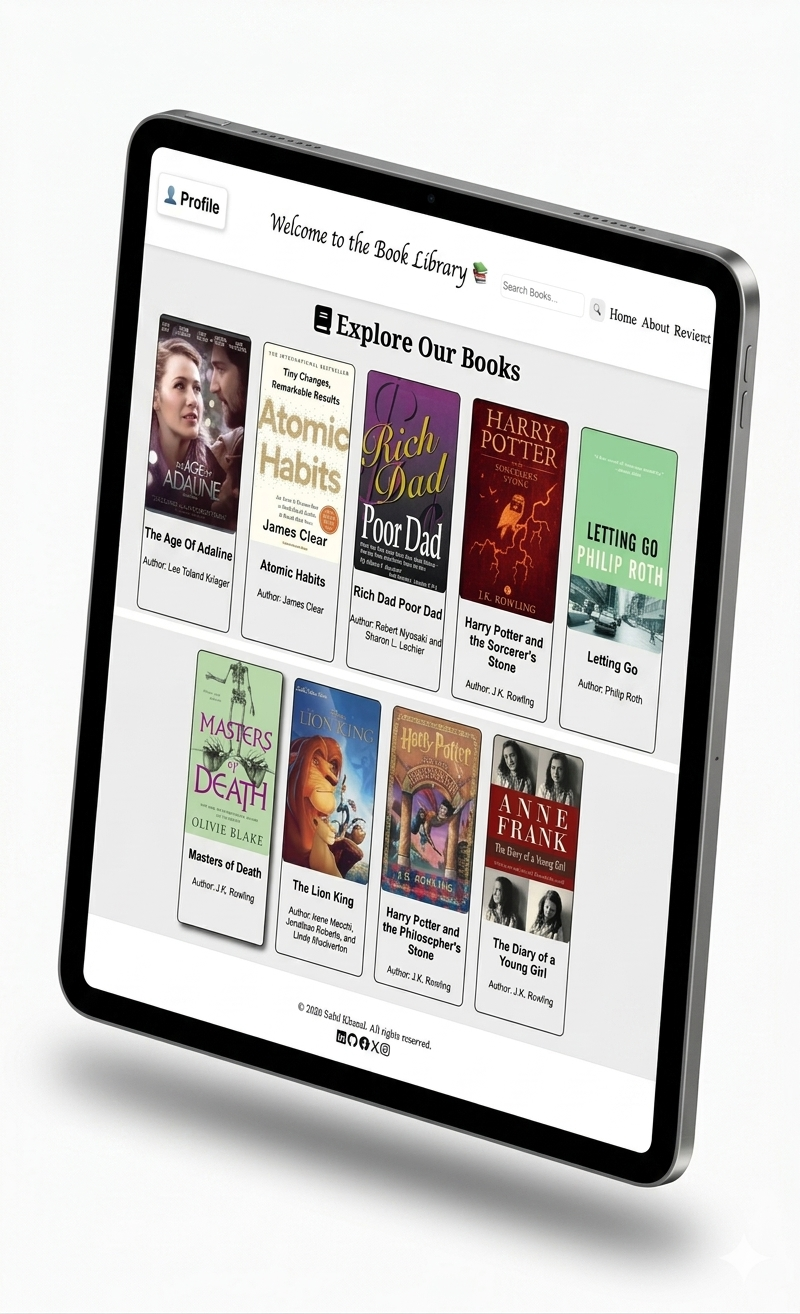
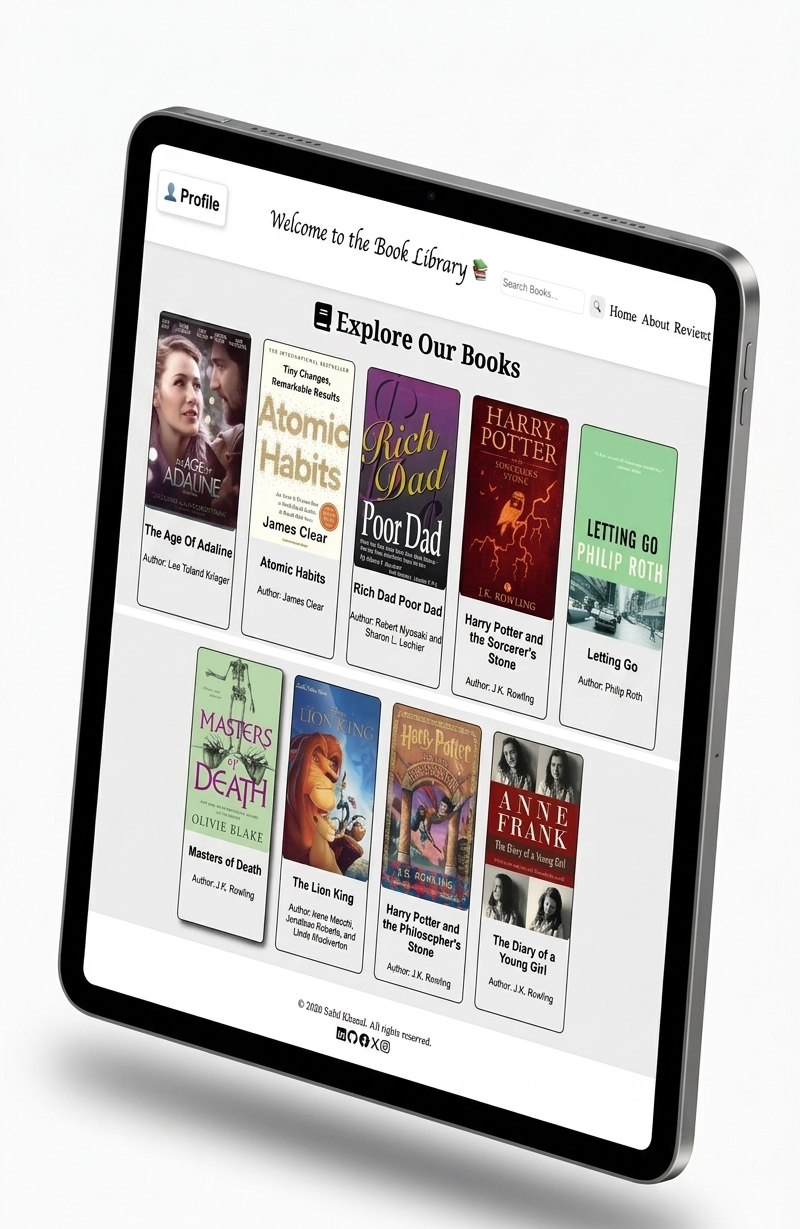
Added dark mode integration and polished mobile theme switch layout.

diff --git a/style.css b/style.css
@@ -1,15 +1,5 @@
 @import url(https://cdnjs.cloudflare.com/ajax/libs/font-awesome/6.4.0/css/all.min.css);
-.status-badge {
-    display: inline-block;
-    padding: 5px 12px;
-    background-color: #fff3cd; 
-    color: #856404;
-    border: 1px solid #ffeeba;
-    border-radius: 20px;
-    font-size: 20px;
-    font-weight: 500;
-    margin-bottom: 15px;
-}
+
 * {
     margin: 0;
     padding: 0;
@@ -20,7 +10,7 @@ html{
 }
 body{
     font-family:  -apple-system, BlinkMacSystemFont, "Segoe UI", Roboto, Helvetica, Arial, sans-serif;
-    background-color: rgb(249, 250, 252);
+    background-color: var(--bg-main);
     line-height: 1.6;
 }
 
@@ -38,10 +28,7 @@ header{
     align-items: center;
     height: 0;
     margin: 0 auto;
-}
-#navbar-container{
-    }
-    
+}   
 .logo img {
     height: 30px;
     width: 50px;
@@ -79,11 +66,11 @@ header{
     align-items: center;
     height: 60px;
     margin-top: 3px;
-    border: 1px solid  rgb(205, 203, 203);
+    border: 1px solid  var(--bg-card);
     border-radius: 30px;
-    background-color: rgba(244, 243, 241,0.8);
+    background-color: var(--nav-bg);
     backdrop-filter: blur(5px);
-    box-shadow: 0 4px 15px rgb(205, 203, 203);
+    box-shadow: 0 4px 15px var(--nav-shadow);
 
 }
 nav a:first-child{
@@ -92,7 +79,7 @@ nav a:first-child{
 nav a{
     cursor: pointer;
     text-decoration: none;
-    color:  rgb(13, 12, 12);
+    color:  var(--text-main);
     font-size: 18px;
     font-weight: 510;
     transition: transform 0.3s ease;
@@ -129,6 +116,7 @@ nav a:hover{
     font-size: 70px;
     line-height: 1.1;
     margin-bottom: 10px;
+    color: var(--text-main);
 }
 .home-content h1 .highlight{
     color:  #002fff;
@@ -137,7 +125,7 @@ nav a:hover{
 .home-content h2{
     font-size: 28px;
     font-weight: 400;
-    color: #555;
+    color: var(--text-main);
     margin-bottom: 20px;
 }
 .home-content p{
@@ -169,19 +157,19 @@ nav a:hover{
     box-shadow: 0px 5px 15px  rgba(41, 105, 224, 0.3);
 }
 .btn-secondary{
-    border:1px solid black;
+    border:1px solid var(--border-color);
     background-color: transparent;;
-    color: black;
+    color: var(--text-main);
 }
 .btn-secondary:hover{
-    background-color: black;
-    color: white;
+    background-color: var(--text-main);
+    color: var(--bg-card);
 }
 
 section:not(#home):not(#contact){
     max-width: 900px;
     min-height: 80vh;
-    background-color: white;
+    background-color: var(--bg-card);
     margin: 60px auto;
     padding: 60px 40px ;
     border-radius: 15px;
@@ -191,17 +179,19 @@ section:not(#home):not(#contact){
 #about p{
     text-align: justify;
     font-size: 20px;
-    color: #444;
+    color: var(--text-main);
 }
 #about h3{
     font-size: 25px;
     font-weight: 500;
+    color: var(--text-main);
 }
 section h2{
     font-size: 32px;
     margin-bottom: 20px;
     position: relative;
     display: inline-block;
+    color: var(--text-main);
 
 }
 section h2::after{
@@ -223,15 +213,14 @@ section h3{
     margin-top: 30px;
 }
 .skill-card{
-
     padding: 15px;
     border-radius: 10px;
     text-align: center;
-    background-color: #f4f3f1;
+    background-color: var(--bg-skill);
     transition: 0.3s ease;
 }
 .skill-card:hover{
-    background-color: #e9e8e6;
+    background-color: var(--bg-skill);
     transform: scale(1.05);
 }
 .skill-card i{
@@ -239,6 +228,9 @@ section h3{
     font-size: 24px;
     color: #002fff;
     margin-bottom: 5px;
+}
+.skill-card span{
+    color:var(--text-main)
 }
 .project-wrap{
     height: auto;
@@ -375,7 +367,7 @@ section h3{
     right: -100%; 
     width: 300px;
     height: 100vh;
-    background-color: #ffffff;
+    background-color: var(--bg-card);
     z-index: 2000;
     transition: 0.4s cubic-bezier(0.4, 0, 0.2, 1);
     display: flex;
@@ -405,7 +397,7 @@ section h3{
 
 .mobile-nav-links a {
     text-decoration: none;
-    color: #1a1a1a;
+    color: var(--text-main);
     font-size: 22px;
     font-weight: 600;
     padding-bottom: 10px;
@@ -420,6 +412,50 @@ section h3{
     padding: 15px;
     border-radius: 8px;
     border-bottom: none !important;
+}
+:root {
+    --bg-main: #f9fafc;       
+    --bg-card: #ffffff;    
+    --bg-skill: #f4f3f1;   
+    --text-main: #1a1a1a; 
+    --nav-bg: rgba(244, 243, 241, 0.8);
+    --border-color: #000000;
+    --nav-shadow:rgba(205, 203, 203, 0.5);
+}
+
+[data-theme="dark"] {
+    --bg-main: #121212;     
+    --bg-card: #1e1e1e;      
+    --bg-skill: #2a2a2a;     
+    --text-main: #e0e0e0;   
+    --nav-bg: rgba(30, 30, 30, 0.8);
+    --border-color: #ffffff;  
+    --nav-shadow:rgba(0, 0, 0, 0.5);
+}
+
+.theme-switch-wrapper{
+    position: fixed;
+    left:25px;
+    bottom: 25px;
+    z-index: 1000;
+}
+.theme-btn {
+    background: #002fff; 
+    color: white;
+    border: none;
+    width: 45px;
+    height: 45px;
+    border-radius: 50%;
+    cursor: pointer;
+    box-shadow: 4px 4px 10px rgba(0,0,0,0.3);
+    display: flex;
+    align-items: center;
+    justify-content: center;
+    font-size: 20px;
+    transition: transform 0.3s ease;
+}
+.theme-btn:hover{
+    transform: scale(1.1);
 }
 
 @media (max-width: 717px) {
@@ -503,6 +539,9 @@ section h3{
     .social-icons::before,
     .social-icons::after {
         width: 30px; 
+    }
+    .theme-switch-wrapper{
+       bottom: 50px;
     }
 
 }

diff --git a/script.js b/script.js
@@ -1,9 +1,12 @@
     const menuIcon = document.querySelector('.mobile-menu-icon');
     const closeIcon = document.querySelector('.close-icon');
     const mobileMenu = document.getElementById('mobile-menu-overlay');
-    const navLinks = document.querySelectorAll('.mobile-nav-links a')
-    const header=document.querySelector('header');
-    
+    const navLinks = document.querySelectorAll('.mobile-nav-links a');
+    const header = document.querySelector('header');
+    const themeToggle = document.getElementById('theme-toggle');
+    const themeIcon = document.getElementById('theme-icon');  
+
+
     menuIcon.addEventListener('click', () => {
         mobileMenu.classList.add('active');
     });
@@ -27,3 +30,25 @@
         }
         lastScrollY=window.scrollY;
     })
+
+    if (localStorage.getItem('theme') === 'dark') {
+        document.body.setAttribute('data-theme', 'dark');
+        themeIcon.classList.replace('fa-sun', 'fa-moon');
+    } else {
+        themeIcon.classList.add('fa-sun');
+    }
+
+    themeToggle.addEventListener('click', () => {
+        if (document.body.getAttribute('data-theme') === 'dark') {
+            document.body.removeAttribute('data-theme');
+            localStorage.setItem('theme', 'light');
+            themeIcon.classList.replace('fa-moon', 'fa-sun');
+        } else {
+            document.body.setAttribute('data-theme', 'dark');
+            localStorage.setItem('theme', 'dark');
+            themeIcon.classList.replace('fa-sun', 'fa-moon');
+        }
+    });
+
+
+

diff --git a/index.html b/index.html
@@ -121,6 +121,11 @@
             </div>
             </section>
             </footer>
+            <div class="theme-switch-wrapper">
+                <button id="theme-toggle" class="theme-btn">
+                    <i class="fa-solid fa-moon" id="theme-icon"></i>
+                </button>
+            </div>
             <script src="script.js"></script>
 </body>
 </html>
